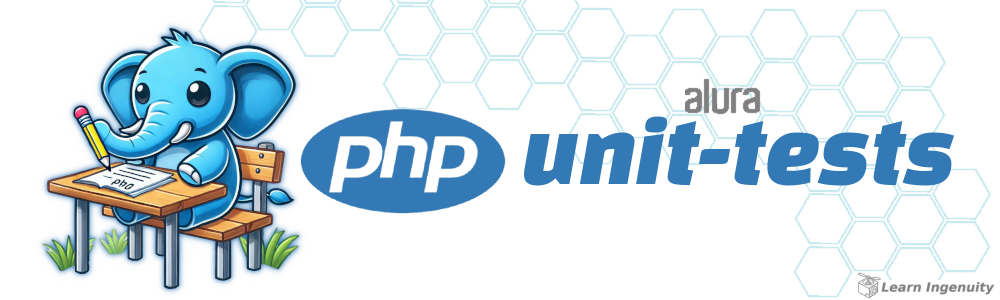
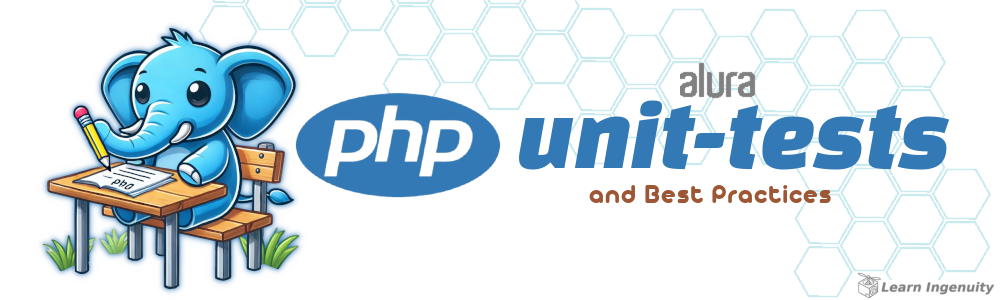
fix(docs): readme e header

Changed region(s): [[0.279, 0.21, 0.961, 0.72]]

diff --git a/README.md b/README.md
@@ -33,7 +33,7 @@
 <a id="index"></a>
 ### ⤴ Index
 
-__[Laravel CRUD Series](#php-unit-tests)__<br/>
+__[PHP Unit & Best Practices](#php-unit-tests)__<br/>
   1. ⤴ [Index](#index)
   2. 📗 [Sobre](#about)
   3. 💻 [Rodando o Projeto](#run)
